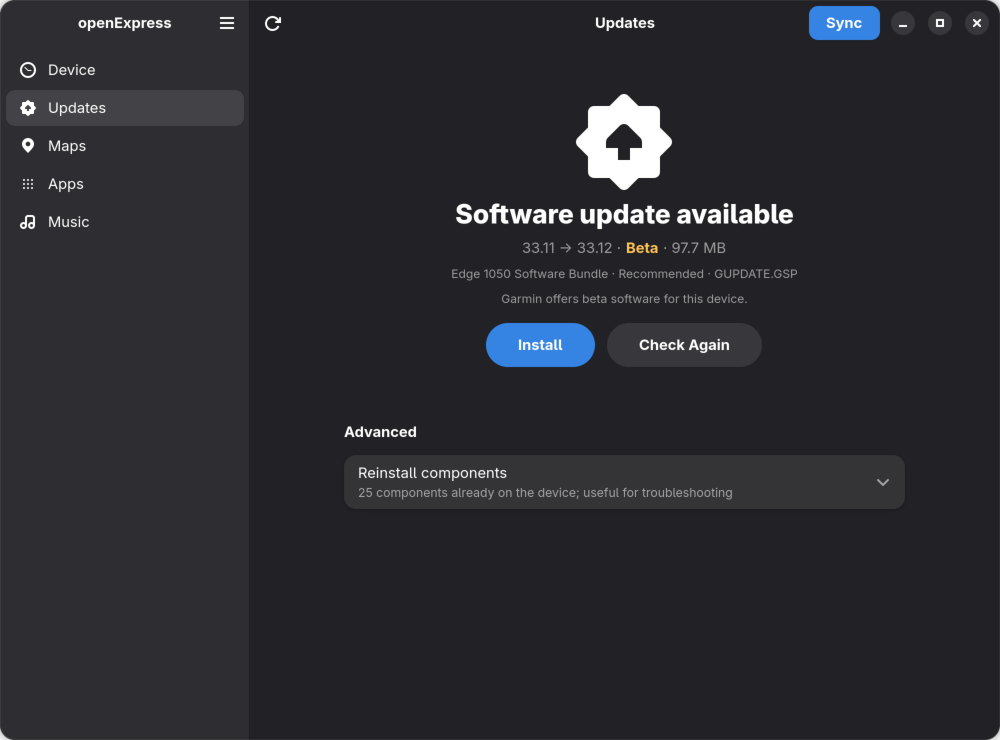
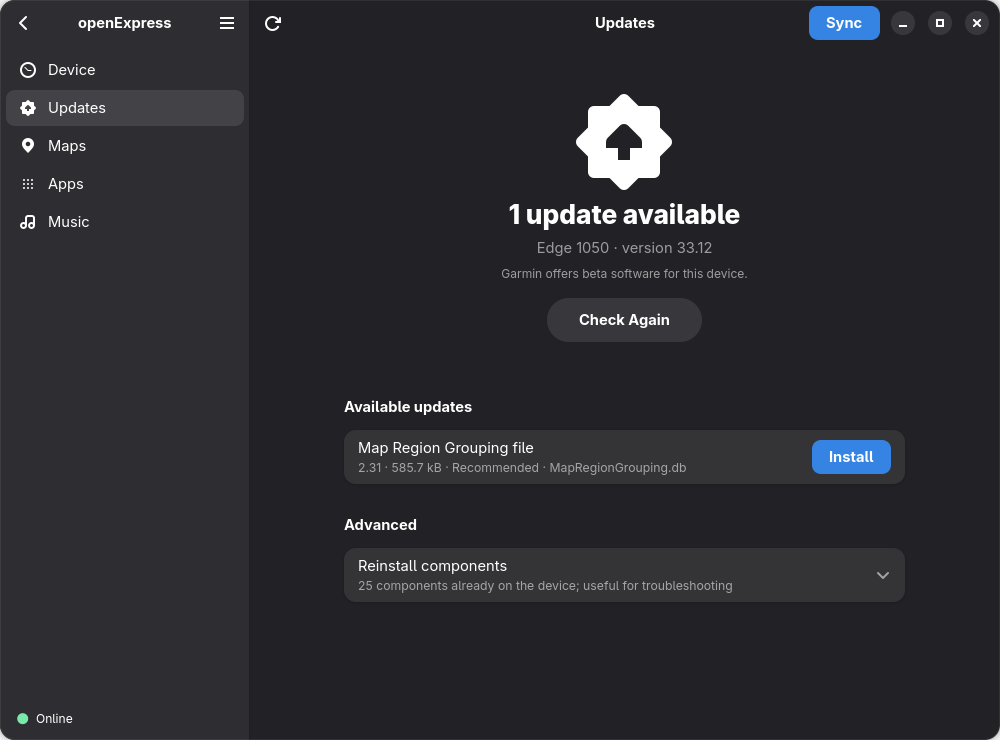
Screenshots of a component update

diff --git a/README.md b/README.md
@@ -64,7 +64,7 @@ should work, but are untested – reports are welcome. Developed on Fedora/GNOME
 
 <p align="center">
   <img src="docs/screenshots/updates.png" width="800"
-       alt="The Updates page: a beta software update offered for an Edge 1050">
+       alt="The Updates page: a component update offered for an Edge 1050">
 </p>
 
 ### Not yet available
@@ -209,7 +209,7 @@ Installing a system update was tested on an Edge 1050 (beta 33.12, 14 October 20
 
 <p align="center">
   <img src="docs/screenshots/update-confirm.png" width="700"
-       alt="The question before a system update: versions, license link and warning">
+       alt="The question before an update: size, place on the device, changes and license link">
 </p>
 
 ### Maps of your own
